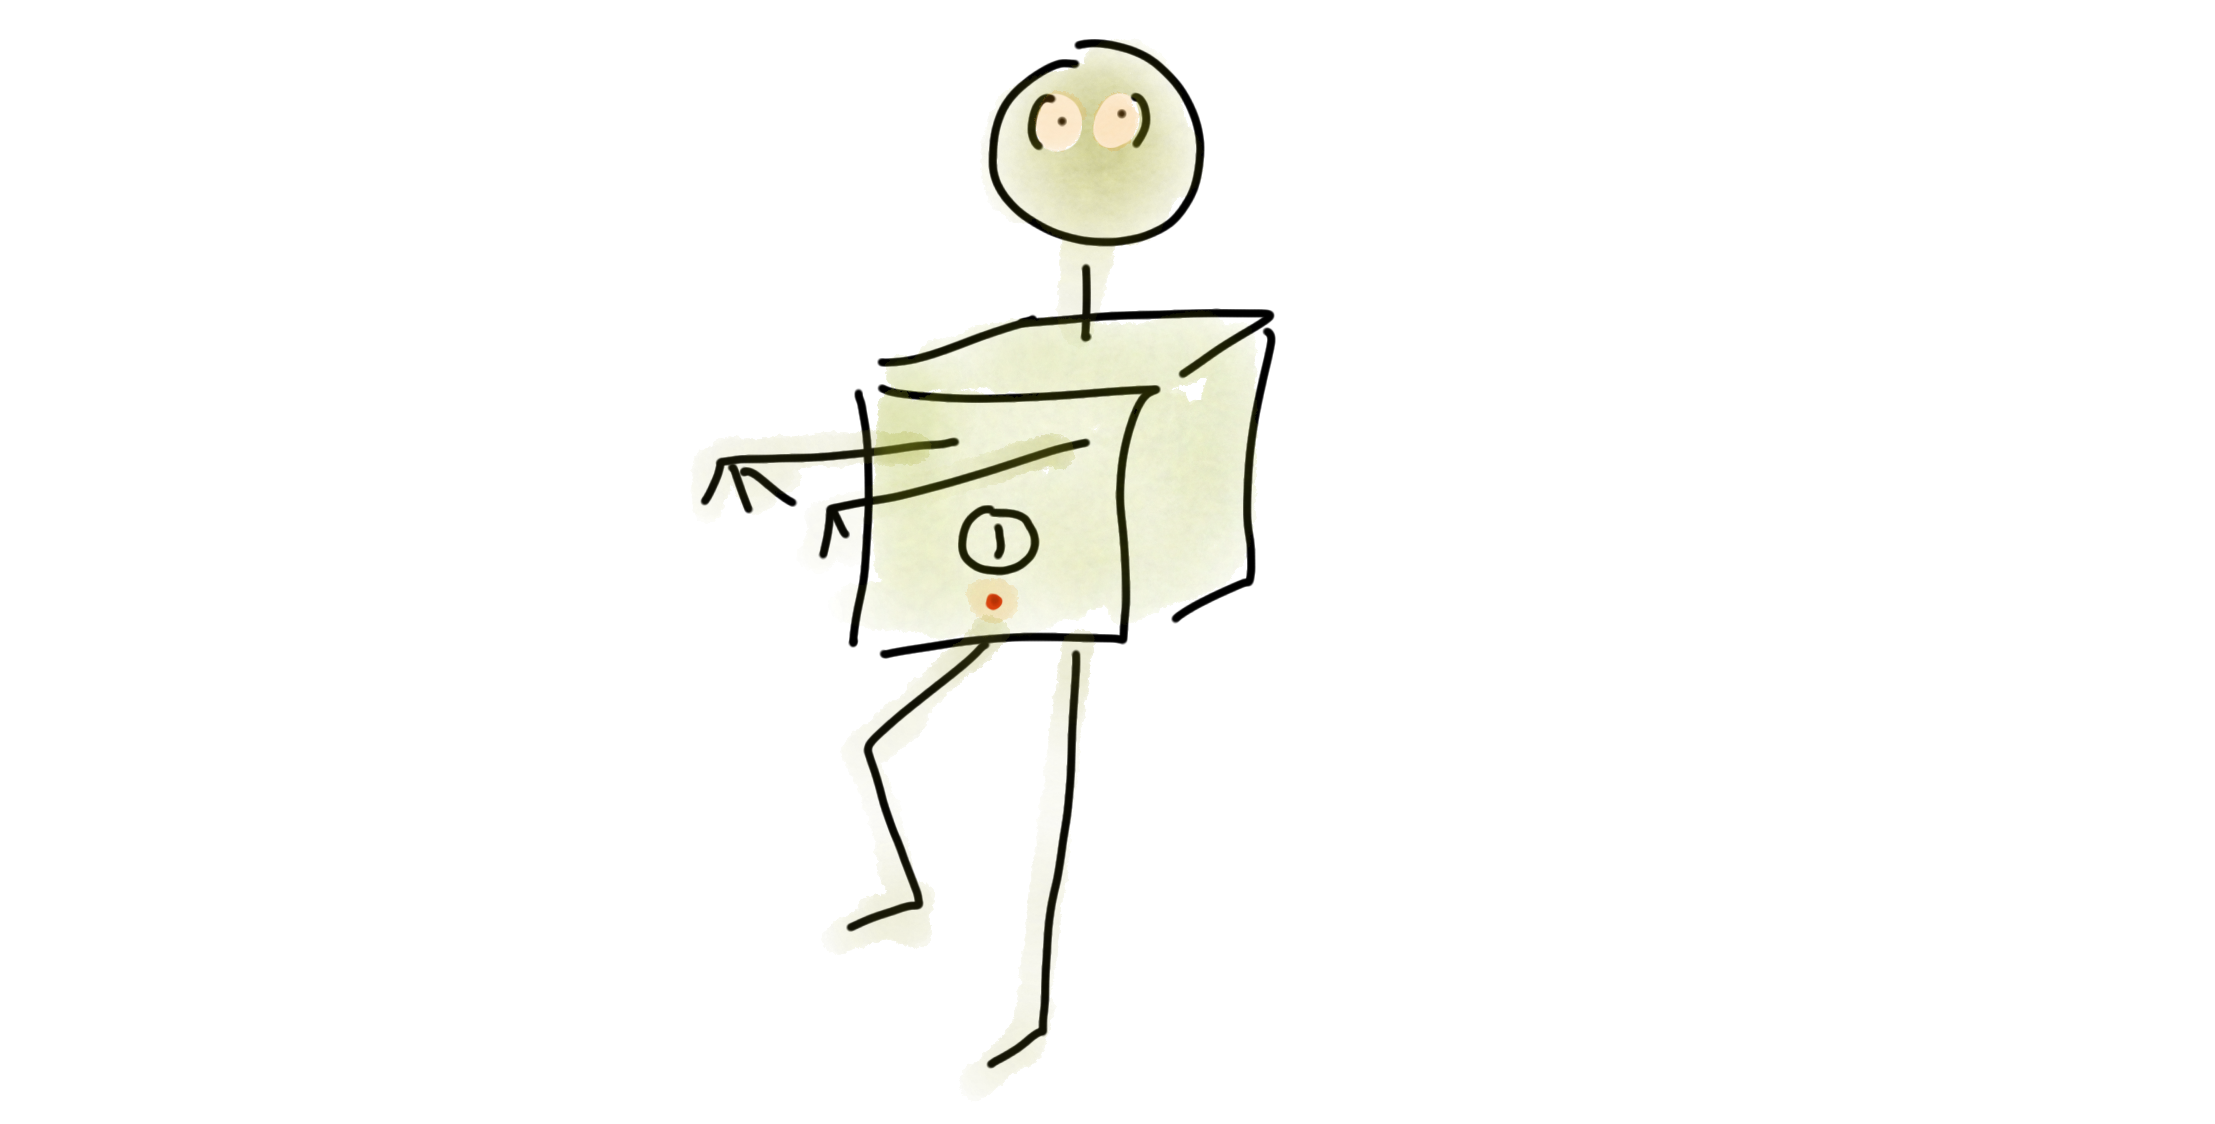
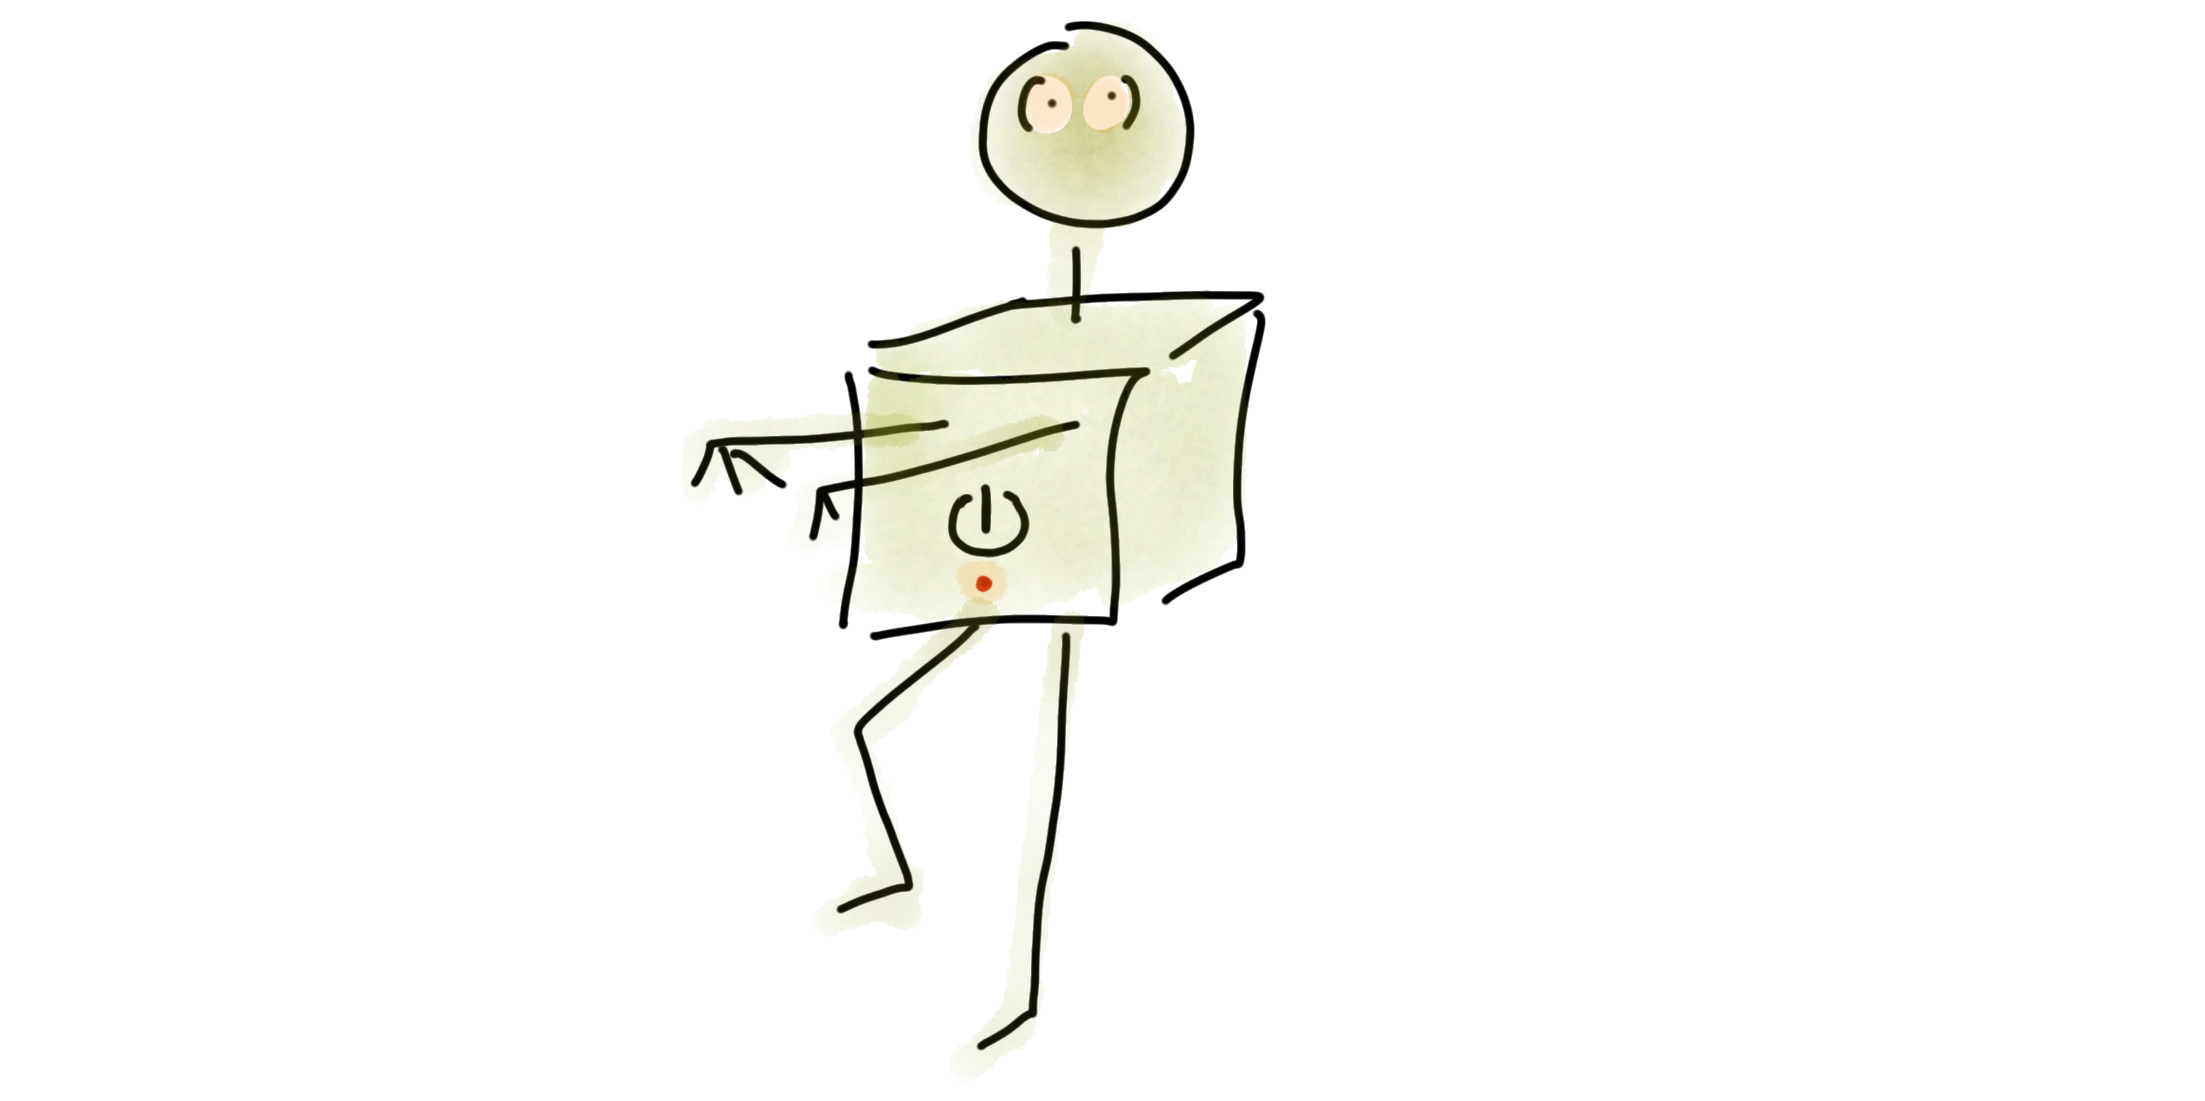
Correct power button

Changed region(s): [[0.3084, 0.0, 0.5859, 0.9264], [0.3701, 0.7411, 0.4317, 0.8338], [0.3701, 0.6485, 0.4009, 0.7411]]

diff --git a/content/posts/2024-10-16--vampires-and-zombies/index.md b/content/posts/2024-10-16--vampires-and-zombies/index.md
@@ -4,6 +4,8 @@ title: "Zombie Menace, Vampire Peril"
 category: sustainability
 type: blog
 cover: vampire.png
+tweets:
+  - https://x.com/P_Ensarguet/status/1847240872418594868
 ---
 
 It's the spookiest time of year! 
